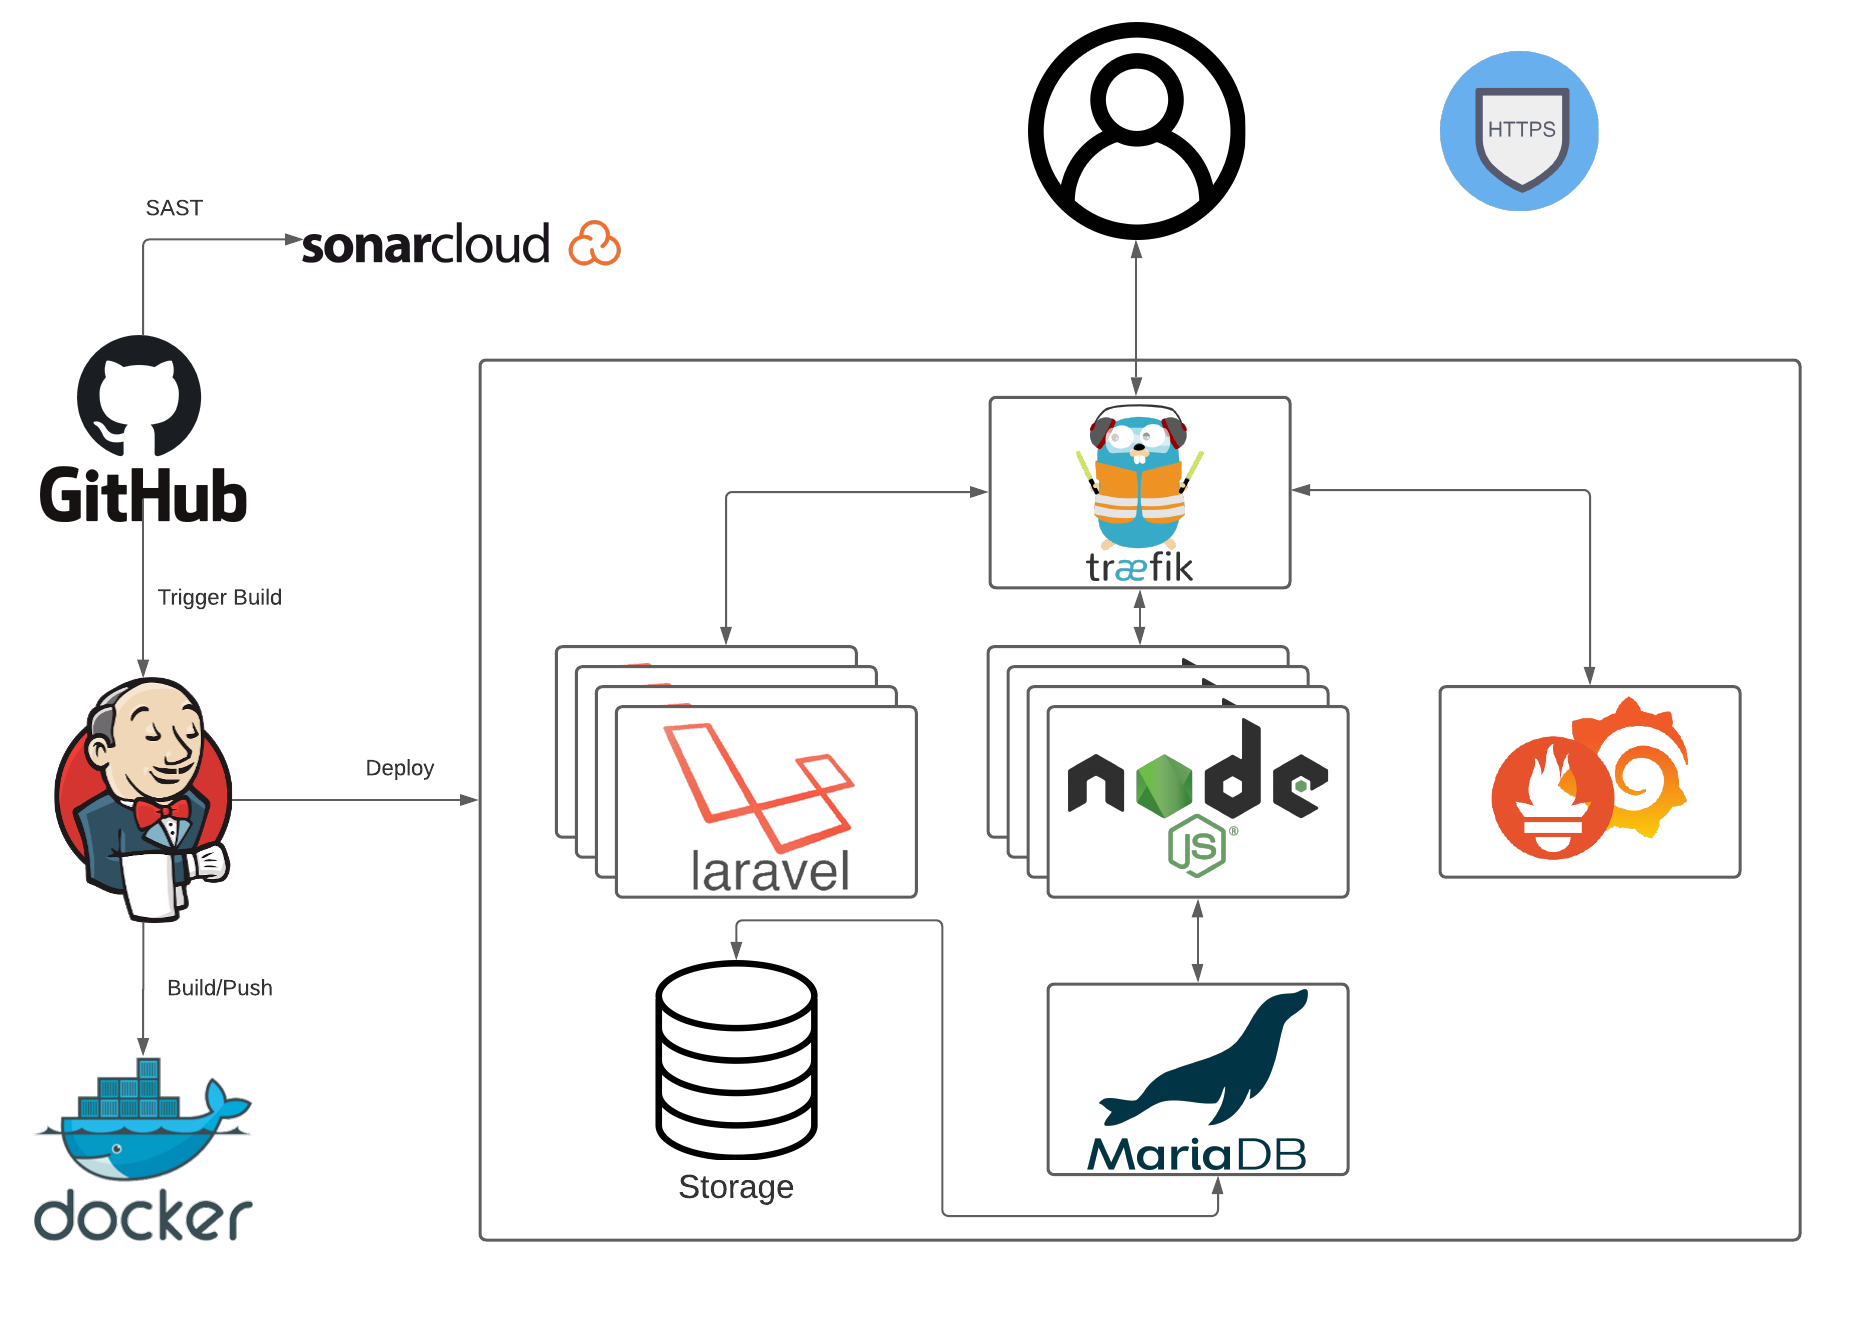
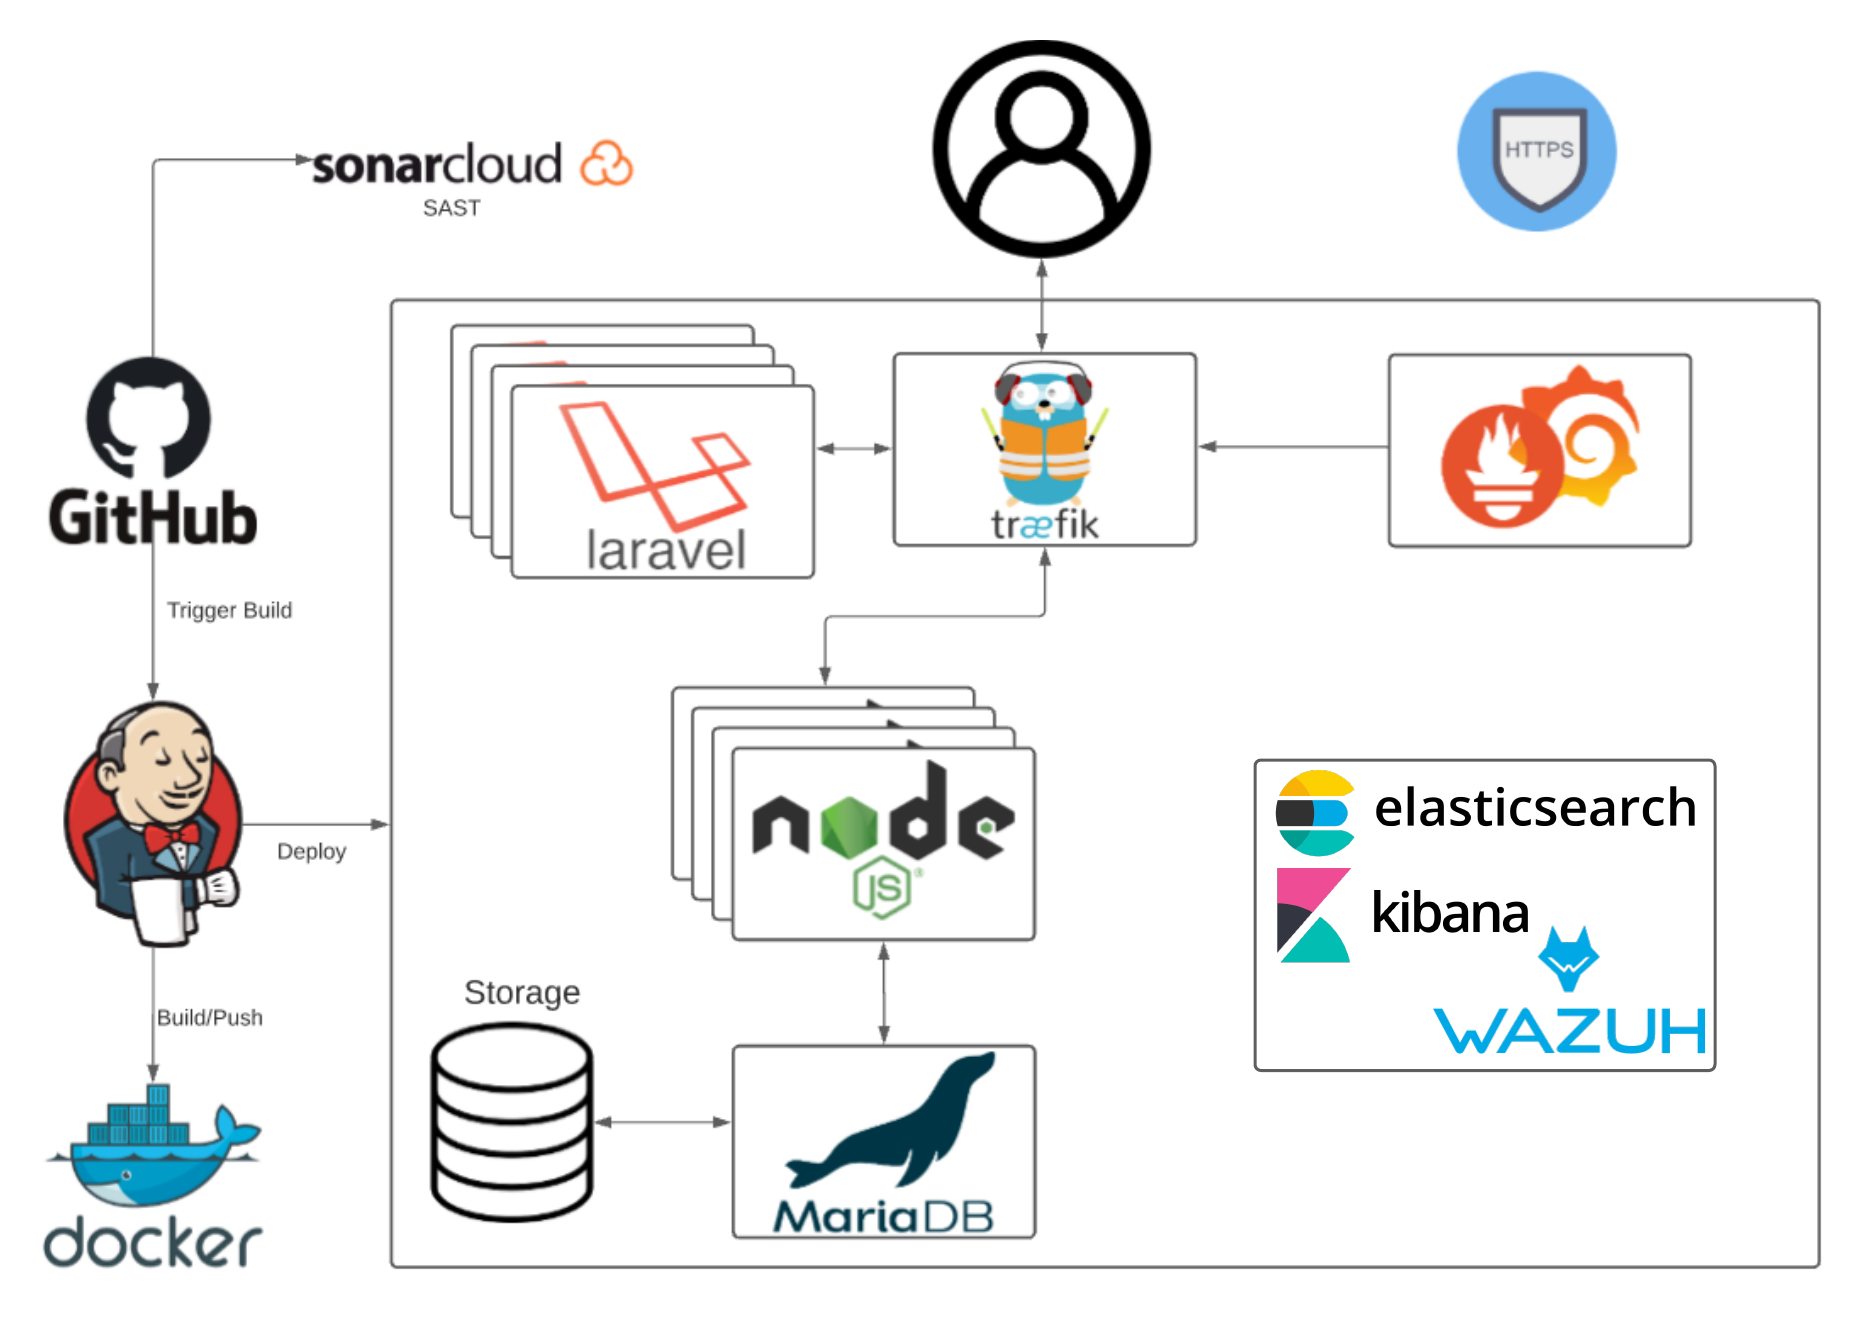
clean readme

diff --git a/README.md b/README.md
@@ -1,20 +1,32 @@
+
 # Pharmacollect Server
 
+![web](https://raw.githubusercontent.com/Pharma-collect/Server/main/img/pharmalogo.png)
+
 [![Bugs](https://sonarcloud.io/api/project_badges/measure?project=Pharma-collect_Server&metric=bugs)](https://sonarcloud.io/dashboard?id=Pharma-collect_Server)
+
 [![Security Rating](https://sonarcloud.io/api/project_badges/measure?project=Pharma-collect_Server&metric=security_rating)](https://sonarcloud.io/dashboard?id=Pharma-collect_Server)
+
 [![Quality Gate Status](https://sonarcloud.io/api/project_badges/measure?project=Pharma-collect_Server&metric=alert_status)](https://sonarcloud.io/dashboard?id=Pharma-collect_Server)
+
 [![Vulnerabilities](https://sonarcloud.io/api/project_badges/measure?project=Pharma-collect_Server&metric=vulnerabilities)](https://sonarcloud.io/dashboard?id=Pharma-collect_Server)
 
 # Architecture
+
 ![web](https://raw.githubusercontent.com/Pharma-collect/Server/main/img/server.png)
+
 # Description
+
 ## Data Flow
+
 ### Traefik
+
 Traefik is a reverse-proxy and load balancer, this mean all requests are redirected to the corresponding service, requests are redirected to the least used instance to allow better management of resources
 
 ![web](https://raw.githubusercontent.com/Pharma-collect/Server/main/img/traefik_dashboard.png)
 
 For more details, go to their [websites](https://doc.traefik.io/traefik/)
+
 ### Laravel
 
 Laravel is a web application framework with expressive, elegant syntax. We’ve already laid the foundation — freeing you to create without sweating the small things.
@@ -22,49 +34,54 @@ Laravel is a web application framework with expressive, elegant syntax. We’ve 
 For,more details, go to their [websites](https://laravel.com/)
 
 ### Node.js
+
 Node.js is a Web Backend Framework, it will process the requests coming from the Frontend, The Authentication, The communication with the database.
 
 For more details, go to their [websites](https://nodejs.org/en/) or our [repository](https://github.com/Pharma-collect/Web_server)
+
 ### PhpMyAdmin
+
 phpMyAdmin is a free software tool written in [PHP](https://php.net/), intended to handle the administration of [MySQL](https://www.mysql.com/) over the Web. phpMyAdmin supports a wide range of operations on MySQL and MariaDB. Frequently used operations (managing databases, tables, columns, relations, indexes, users, permissions, etc) can be performed via the user interface, while you still have the ability to directly execute any SQL statement.
 
 For more details, go to their [websites](https://www.phpmyadmin.net/)
 
 ### MariaDB
+
 MariaDB Server is one of the most popular open source relational databases. It’s made by the original developers of MySQL and guaranteed to stay open source. It is part of most cloud offerings and the default in most Linux distributions.
+
 For more details, go to their [websites](https://mariadb.org/)
 
 ## CI/CD
 
 ### Jenkins
+
 Jenkins is used to build and test your product continuously, so developers can continuously integrate changes into the build. Jenkins is the most popular open source CI/CD tool on the market today and is used in support of DevOps, alongside other cloud native tools.
 
-Jenkins will 
+Jenkins will
 
- 1. Triggers commit in the main branch of all pharmacollect repository's
- 2.  Build, tag and push docker images
- 3. Deploy the new
+1. Triggers commit in the main branch of all pharmacollect repository's
+
+2. Build, tag and push docker images
+
+3. Deploy the new versions
 
 for more details, go to their [websites](https://www.jenkins.io/)
 
-## Monitoring
-
-Tools: Prometheus, Grafana
+## Metrics tools
 
 Traefik expose some prometheus metrics that Grafana use to craft some dashboard
 
-### Traefik dashboard
+### Grafana Dashboard
+
 ![web](https://raw.githubusercontent.com/Pharma-collect/Server/main/img/grafana.png)
 
-
 ## Cybersecurity
+
 ### Sonarcloud
 
 Sonarcloud is the Static Analysis Secure Tool use in the entire project, he catch all vulnerabilities and help with the code quality
 
-### Screenshot
 ![web](https://raw.githubusercontent.com/Pharma-collect/Server/main/img/sonar.png)
-    
 
 ### Suricata
 
@@ -76,34 +93,77 @@ Suricata inspects the network traffic using a powerful and extensive rules and s
 
 For more details, go to their [websites](https://suricata-ids.org/)
 
-### TLS and SSL
+### Wazuh
+
+Wazuh is a free, open source and enterprise-ready security monitoring solution for threat detection, integrity monitoring, incident response and compliance.
+
+We run wazuh with elasticsearch and kibana
+
+![web](https://raw.githubusercontent.com/Pharma-collect/Server/main/img/wazuh.png)
+
+For more details, go to their [websites](https://wazuh.com/)
+
+### TLS and SSL  
 
 All requests are secure, we use https protocol.
+
 For this project, we used a Let's Encrypt wildcard certificates provided by a Custom DNS named Traefik.me
 
+# Get the environment
 
-
-# Get the environment 
-
-## Install
+## Prerequisite
 
 To install the pharmacollect environment, you'll need:
 
- - [ ] Docker
- - [ ] docker-compose
- - [ ] Root access on the server
+- [ ] Docker
+
+- [ ] docker-compose
+
+- [ ] Root access on the server
+
+## Install
+
+### Application
 
 Then run the following command:
 
-    docker-compose up -d
+    git clone https://github.com/Pharma-collect/Server.git
+    
+    cd Server
+
+    cp .env-example .env
+
+    docker-compose -f app.yml up -d
 
 That's it ! Enjoy !
 
-##  Docker Images
+You can add more **metrics/monitoring** containers:
+
+### Metrics
+
+    docker-compose -f metrics.yml up -d
+
+Then you can access Grafana Dashboard on http://localhost:3000 by default with **admin:admin** credentials
+
+### Monitoring
+
+You need to increase `max_map_count` on your Docker host:
+
+    sysctl -w vm.max_map_count=262144
+
+Then:
+
+    docker-compose -f cyber.yml up -d
+
+Then you can access Kibana Dashboard on https://www.localhost:6443/ by default with **admin:admin** credentials
+  
+## Docker Images
 
 All Docker images used in this project are available in [Dockerhub](https://hub.docker.com/) as pharmacollect/images:tag
 
- - pharmacollect/node
- - pharmacolelct/phpmyadmin
- - pharmacollect/mariadb
-
+- pharmacollect/node
+- pharmacolelct/phpmyadmin
+- pharmacollect/mariadb
+- pharmacollect/payment
+- pharmacollect/webfr
+- pharmacollect/webbo
